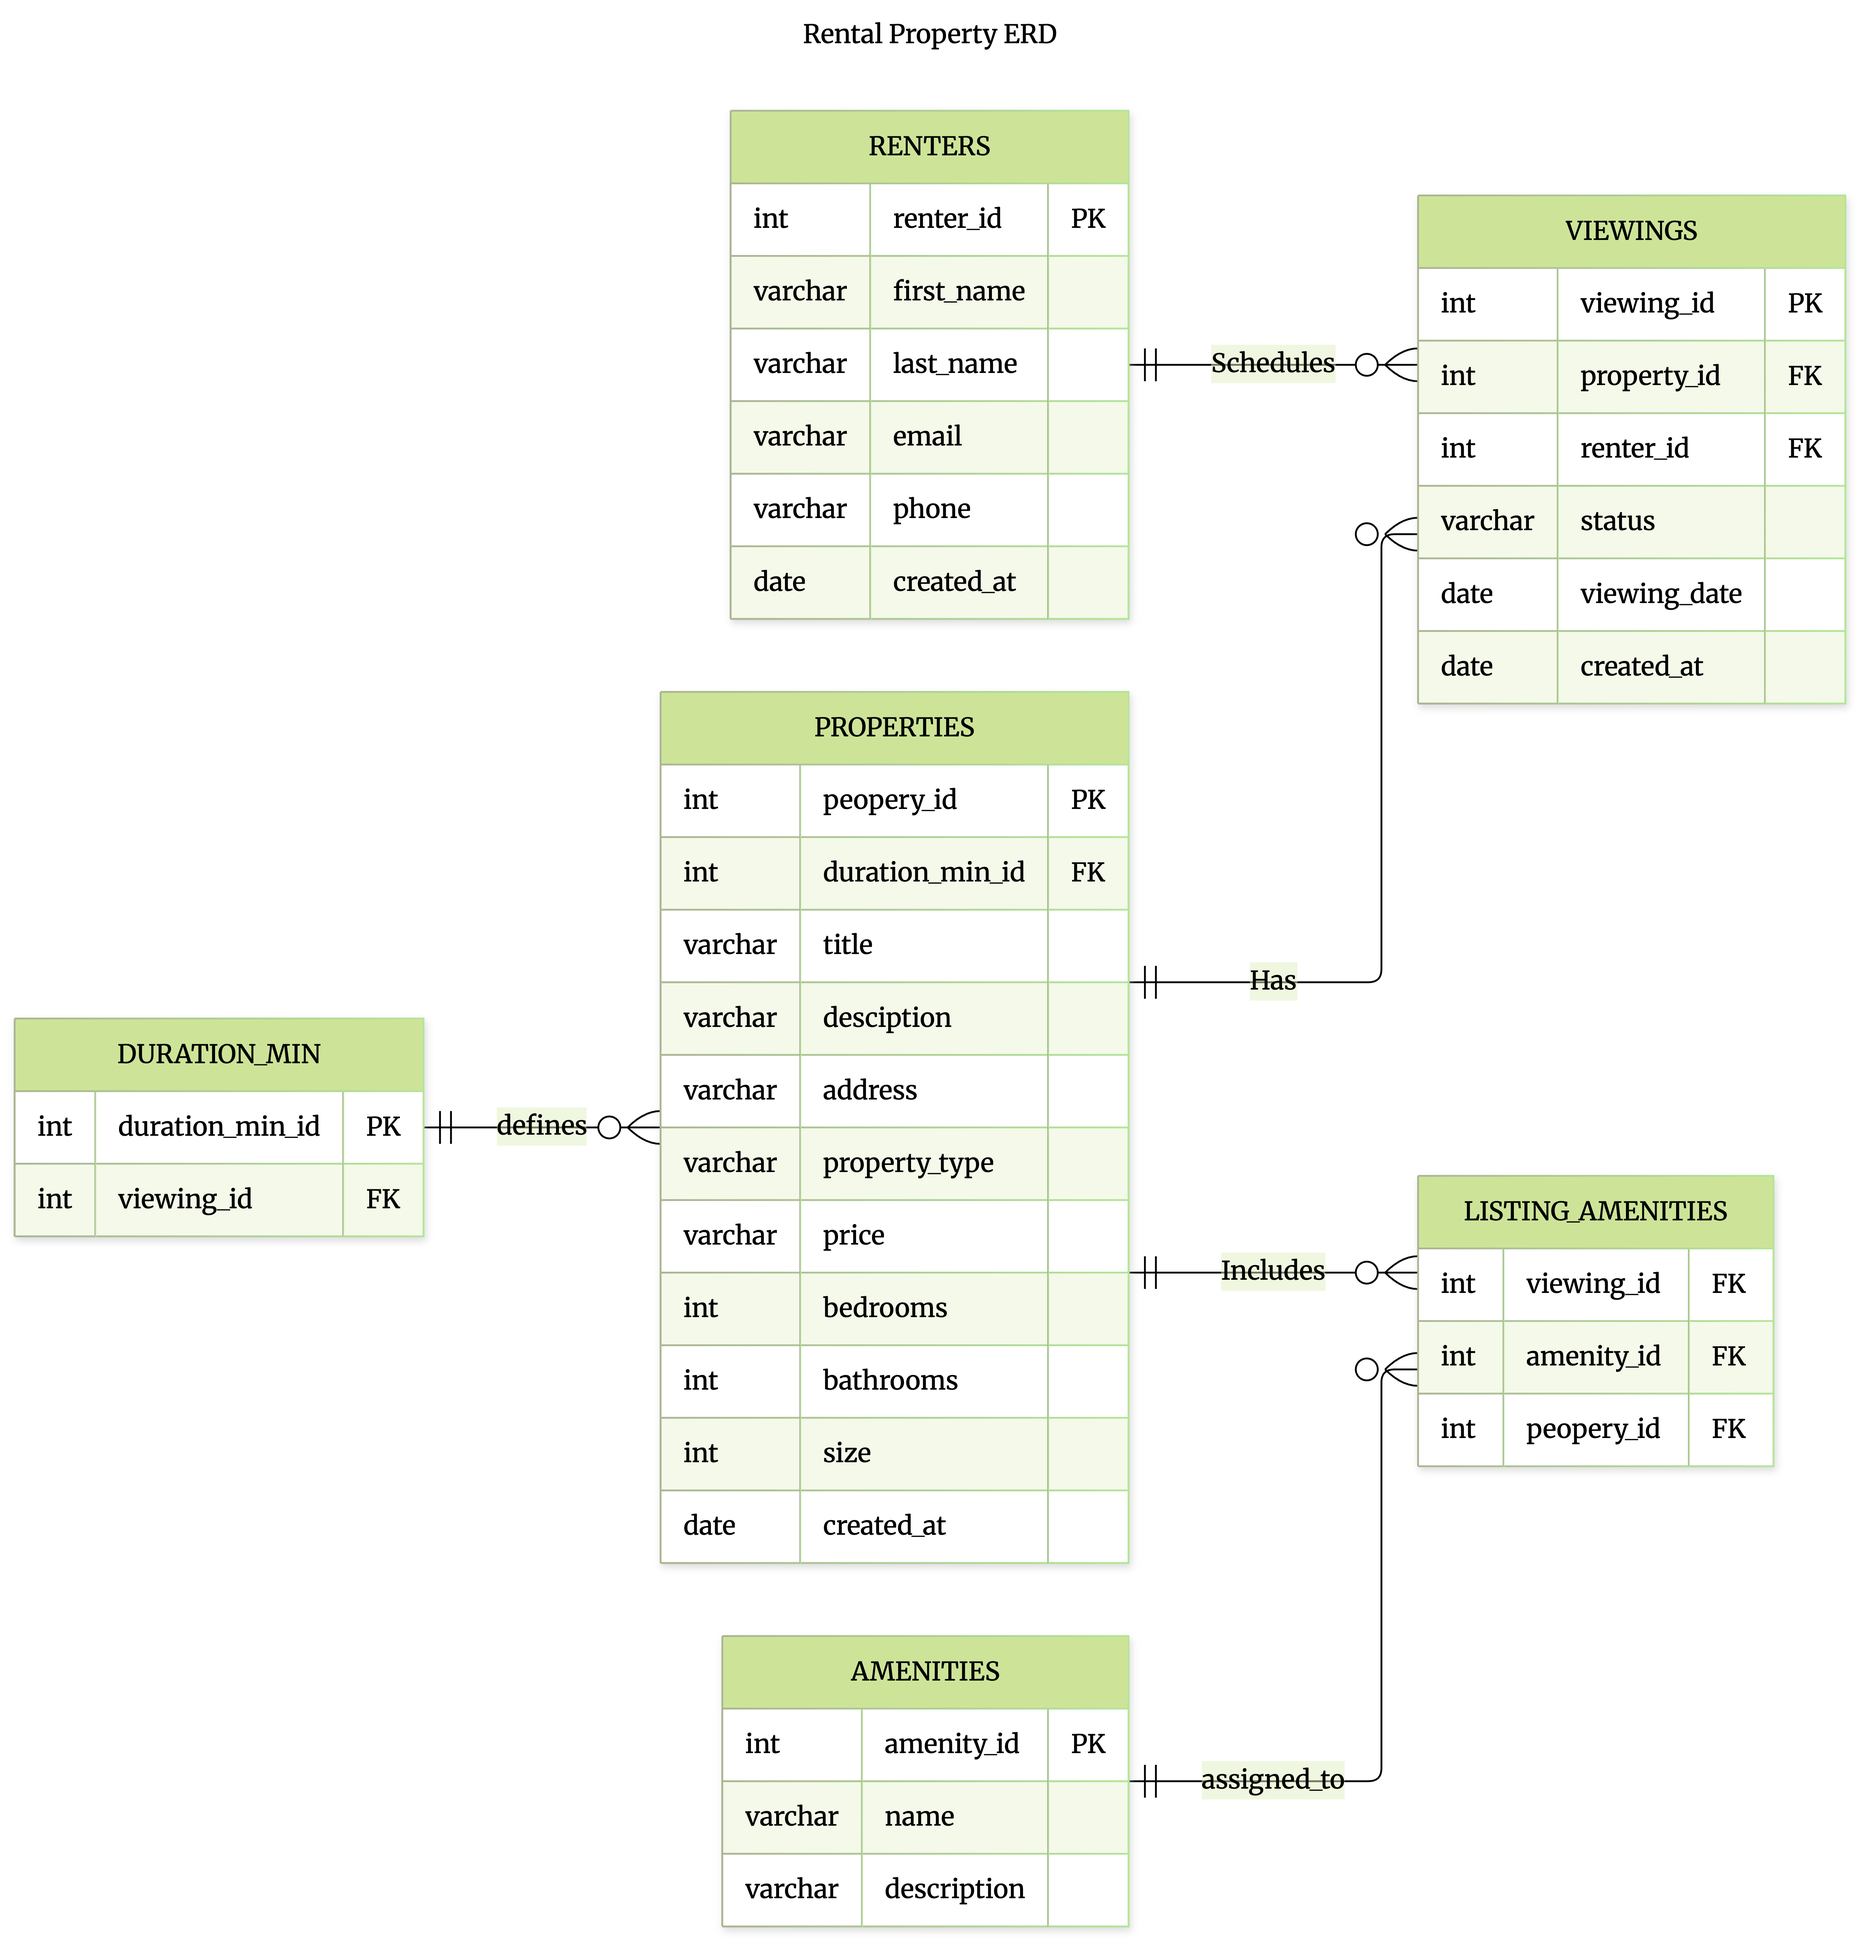
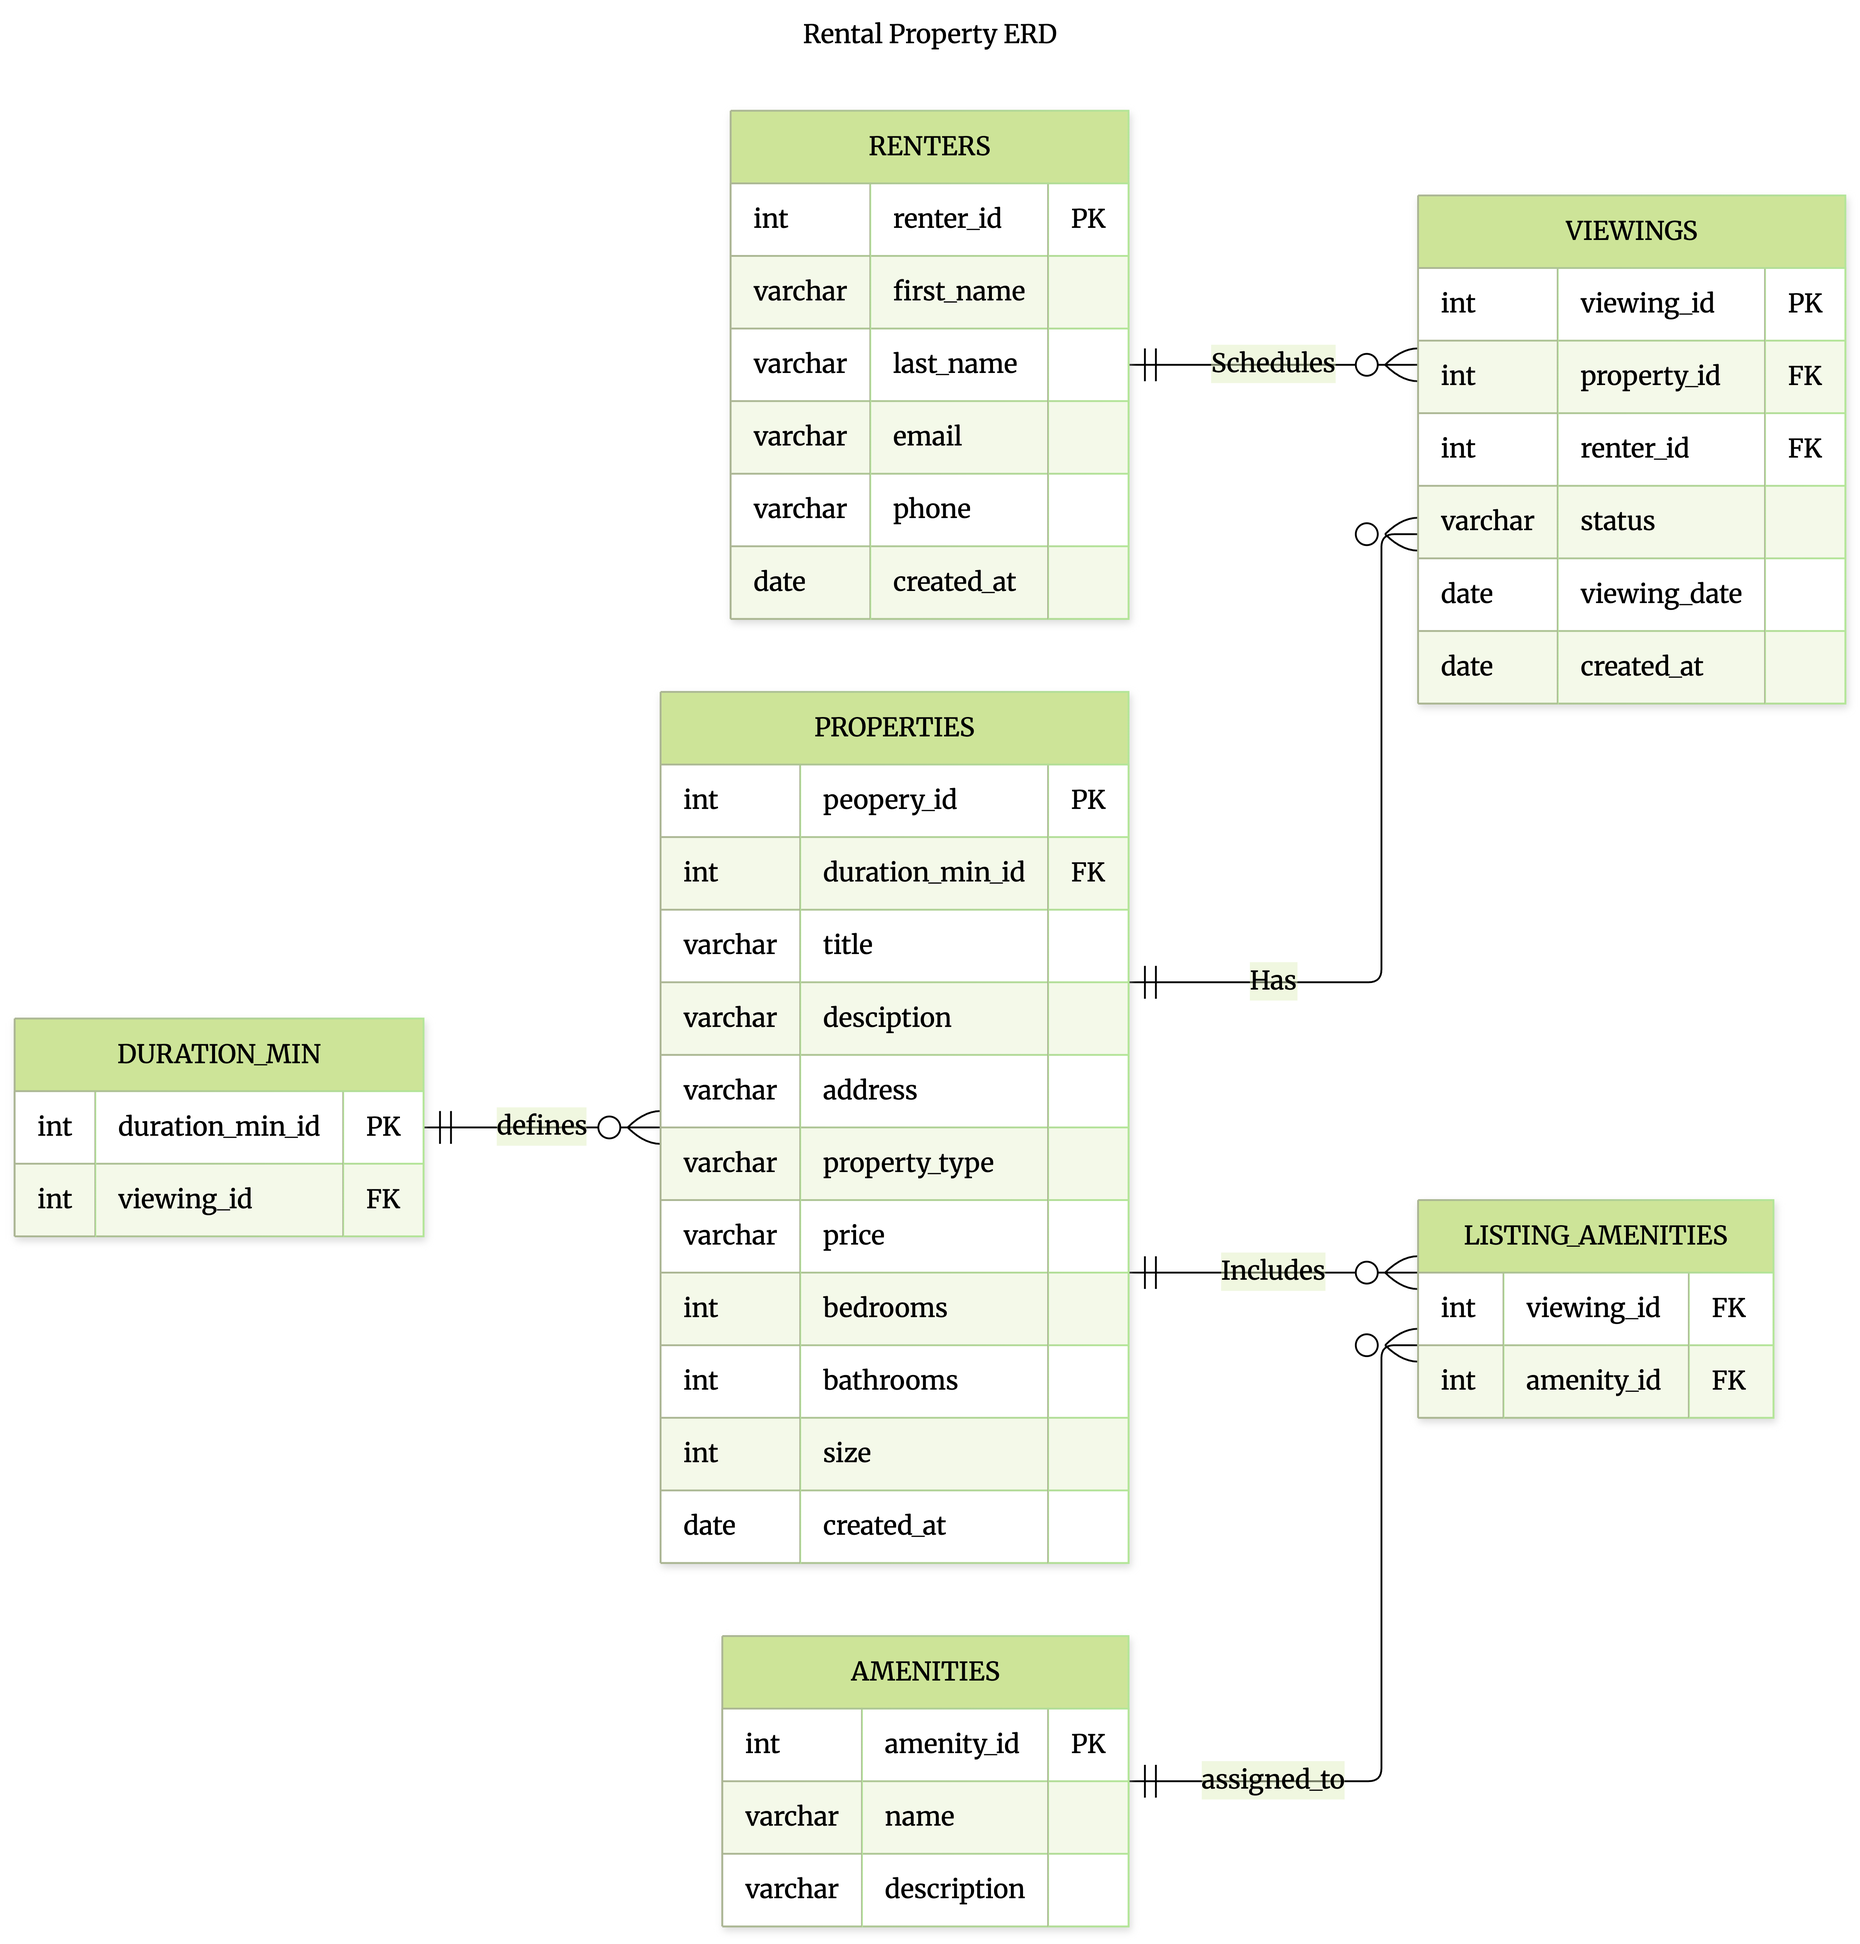
erd diagram and README updated

Changed region(s): [[0.7156, 0.5908, 0.9646, 0.7463]]

diff --git a/schema/schema-definition.md b/schema/schema-definition.md
@@ -1,0 +1,307 @@
+# Relation Schemas
+
+## Overview
+
+The Rental Marketplace database consists of six relations:
+
+1. RENTERS
+2. PROPERTIES
+3. VIEWINGS
+4. AMENITIES
+5. LISTING_AMENITIES
+6. DURATION_MIN
+
+Each relation is described below with its attributes, domains, primary keys, and foreign keys.
+
+---
+
+# 1. RENTERS
+
+## Relation Schema
+
+```text
+RENTERS(
+    renter_id,
+    first_name,
+    last_name,
+    email,
+    phone,
+    created_at
+)
+```
+
+## Attributes and Domains
+
+| Attribute | Domain |
+| ------------ | ---------- |
+| renter_id | INTEGER |
+| first_name | VARCHAR |
+| last_name | VARCHAR |
+| email | VARCHAR |
+| phone | VARCHAR |
+| created_at | DATE |
+
+## Primary Key
+
+```text
+PK(renter_id)
+```
+
+---
+
+# 2. PROPERTIES
+
+## Relation Schema
+
+```text
+PROPERTIES(
+    peopery_id,
+    duration_min_id,
+    title,
+    desciption,
+    address,
+    property_type,
+    price,
+    bedrooms,
+    bathrooms,
+    size,
+    created_at
+)
+```
+
+## Attributes and Domains
+
+| Attribute | Domain |
+| ------------ | ---------- |
+| peopery_id | INTEGER |
+| duration_min_id | INTEGER |
+| title | VARCHAR |
+| desciption | VARCHAR |
+| address | VARCHAR |
+| property_type | VARCHAR |
+| price | VARCHAR |
+| bedrooms | INTEGER |
+| bathrooms | INTEGER |
+| size | INTEGER |
+| created_at | DATE |
+
+## Primary Key
+
+```text
+PK(peopery_id)
+```
+
+## Foreign Keys
+
+```text
+FK(duration_min_id)
+    → DURATION_MIN(duration_min_id)
+```
+
+---
+
+# 3. VIEWINGS
+
+## Relation Schema
+
+```text
+VIEWINGS(
+    viewing_id,
+    property_id,
+    renter_id,
+    status,
+    viewing_date,
+    created_at
+)
+```
+
+## Attributes and Domains
+
+| Attribute | Domain |
+| ------------ | ---------- |
+| viewing_id | INTEGER |
+| property_id | INTEGER |
+| renter_id | INTEGER |
+| status | VARCHAR |
+| viewing_date | DATE |
+| created_at | DATE |
+
+## Primary Key
+
+```text
+PK(viewing_id)
+```
+
+## Foreign Keys
+
+```text
+FK(property_id)
+    → PROPERTIES(peopery_id)
+
+FK(renter_id)
+    → RENTERS(renter_id)
+```
+
+---
+
+# 4. AMENITIES
+
+## Relation Schema
+
+```text
+AMENITIES(
+    amenity_id,
+    name,
+    description
+)
+```
+
+## Attributes and Domains
+
+| Attribute | Domain |
+| ------------ | ---------- |
+| amenity_id | INTEGER |
+| name | VARCHAR |
+| description | VARCHAR |
+
+## Primary Key
+
+```text
+PK(amenity_id)
+```
+
+---
+
+# 5. LISTING_AMENITIES
+
+## Relation Schema
+
+```text
+LISTING_AMENITIES(
+    viewing_id,
+    amenity_id
+)
+```
+
+## Attributes and Domains
+
+| Attribute | Domain |
+| ------------ | ---------- |
+| viewing_id | INTEGER |
+| amenity_id | INTEGER |
+
+## Primary Key
+
+```text
+PK(viewing_id, amenity_id)
+```
+
+## Foreign Keys
+
+```text
+FK(viewing_id)
+    → VIEWINGS(viewing_id)
+
+FK(amenity_id)
+    → AMENITIES(amenity_id)
+```
+
+---
+
+# 6. DURATION_MIN
+
+## Relation Schema
+
+```text
+DURATION_MIN(
+    duration_min_id,
+    viewing_id
+)
+```
+
+## Attributes and Domains
+
+| Attribute | Domain |
+| ------------ | ---------- |
+| duration_min_id | INTEGER |
+| viewing_id | INTEGER |
+
+## Primary Key
+
+```text
+PK(duration_min_id)
+```
+
+## Foreign Keys
+
+```text
+FK(viewing_id)
+    → VIEWINGS(viewing_id)
+```
+
+---
+
+# Relationship Summary
+
+| Parent Relation | Child Relation | Cardinality |
+| ---------------- | --------------- | ------------- |
+| RENTERS | VIEWINGS | 1 : M |
+| PROPERTIES | VIEWINGS | 1 : M |
+| PROPERTIES | LISTING_AMENITIES | 1 : M |
+| AMENITIES | LISTING_AMENITIES | 1 : M |
+| DURATION_MIN | PROPERTIES | 1 : M |
+
+---
+
+# Relational Model
+
+```text
+RENTERS(
+    renter_id PK,
+    first_name,
+    last_name,
+    email,
+    phone,
+    created_at
+)
+
+PROPERTIES(
+    peopery_id PK,
+    duration_min_id FK,
+    title,
+    desciption,
+    address,
+    property_type,
+    price,
+    bedrooms,
+    bathrooms,
+    size,
+    created_at
+)
+
+VIEWINGS(
+    viewing_id PK,
+    property_id FK,
+    renter_id FK,
+    status,
+    viewing_date,
+    created_at
+)
+
+AMENITIES(
+    amenity_id PK,
+    name,
+    description
+)
+
+LISTING_AMENITIES(
+    viewing_id FK,
+    amenity_id FK,
+    PK(viewing_id, amenity_id)
+)
+
+DURATION_MIN(
+    duration_min_id PK,
+    viewing_id FK
+)
+```
